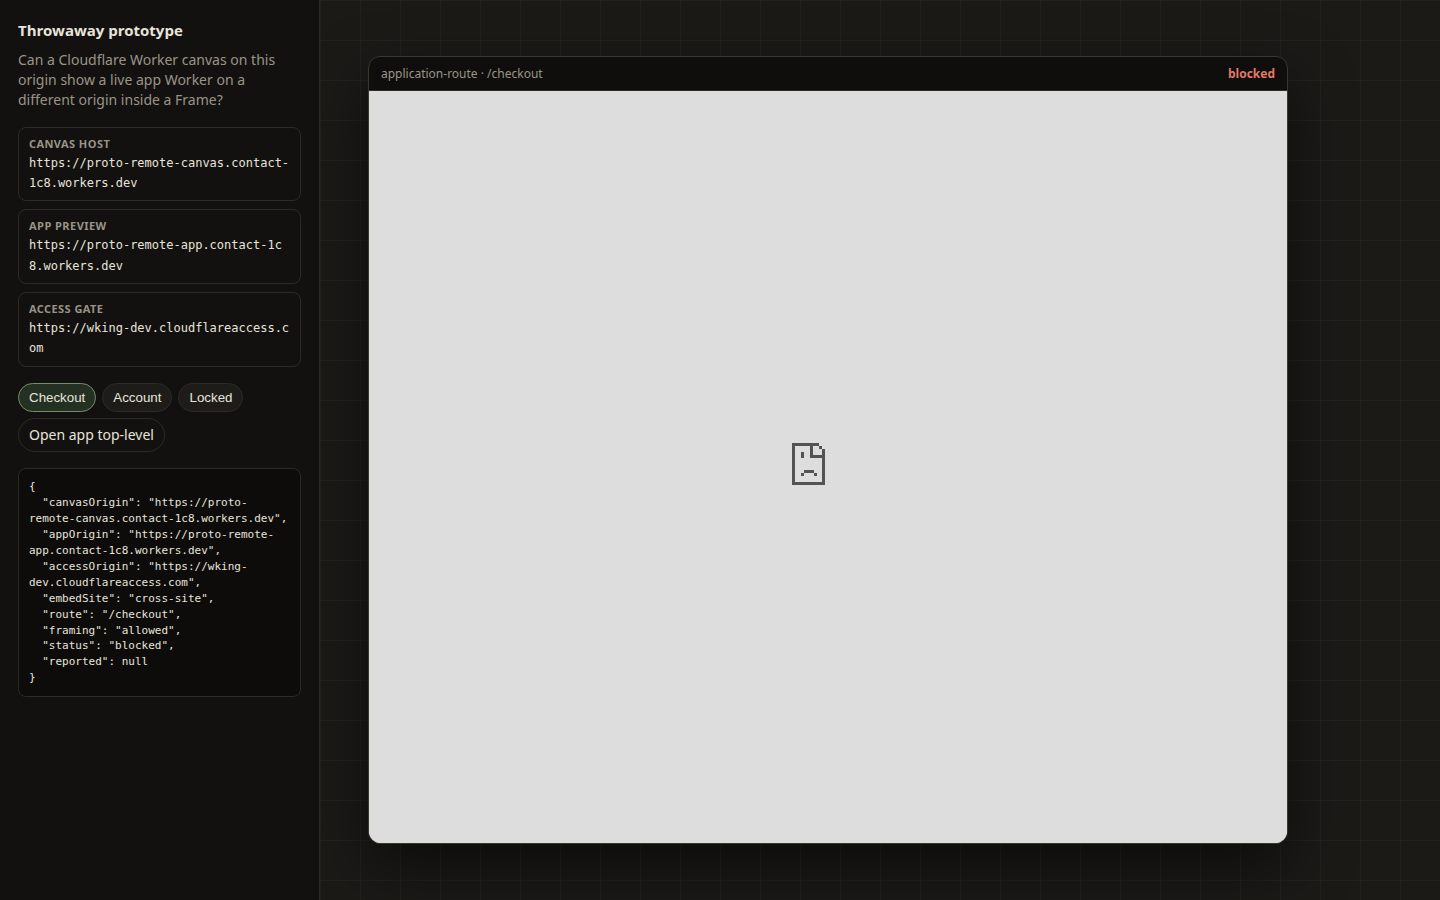
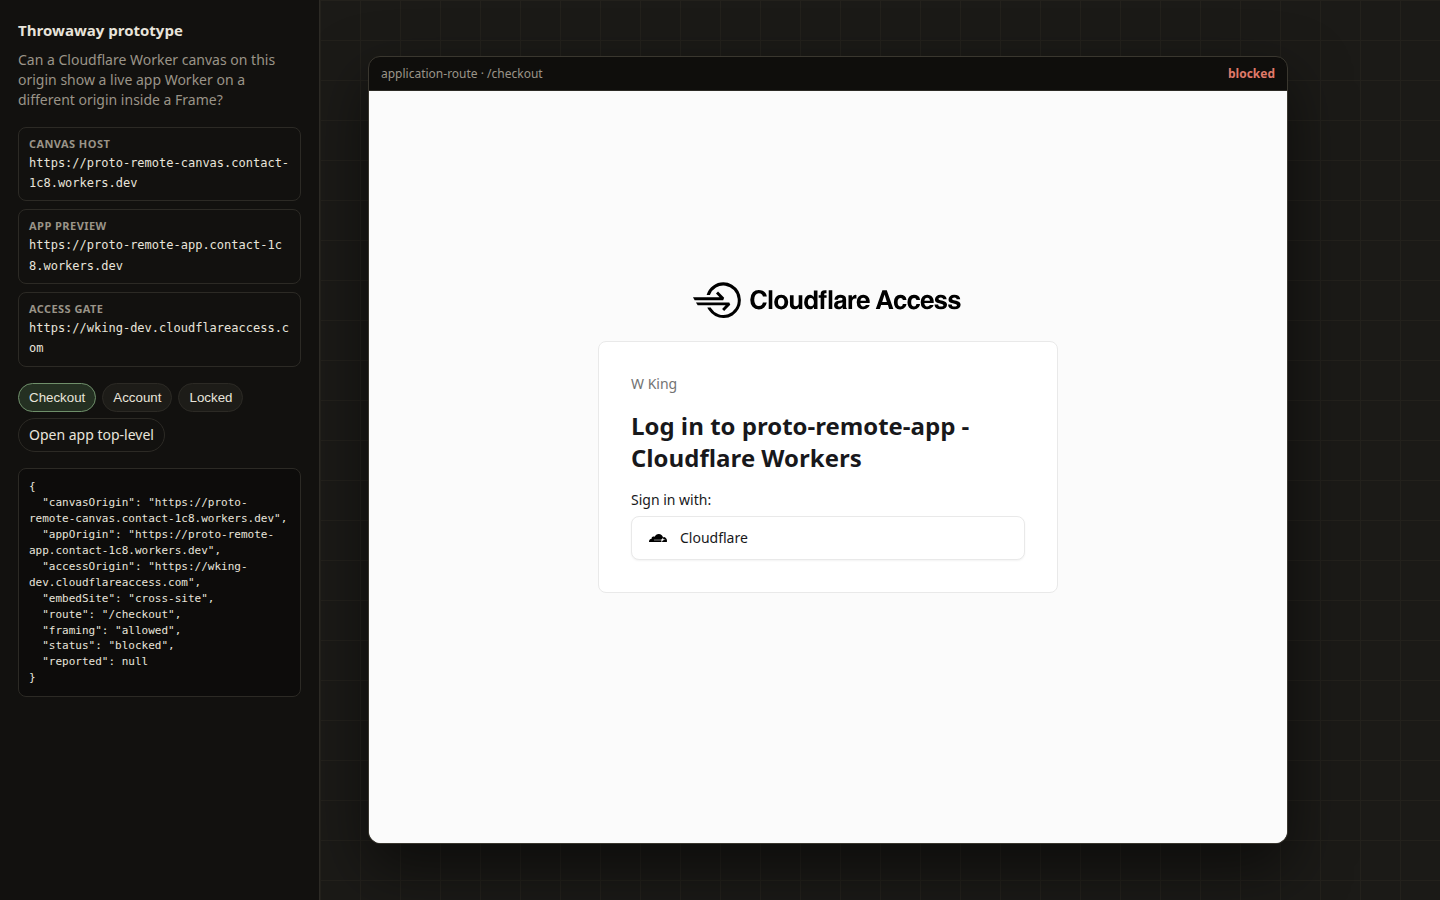
Mark a framed Access login as gate on the live canvas
allow_iframe and CORS are on for proto-remote-app. The Access login
now loads in the canvas Frame. Real Access does not postMessage, so
the canvas treats an allowed iframe load as gate.

diff --git a/prototypes/remote-canvas-viewer/canvas/worker.js b/prototypes/remote-canvas-viewer/canvas/worker.js
@@ -204,6 +204,13 @@ const html = ({ appOrigin, canvasOrigin, accessOrigin }) => `<!doctype html>
       paint()
     }
 
+    iframe.addEventListener("load", () => {
+      if (state.status === "loading" && state.accessOrigin && state.framing === "allowed") {
+        state.status = "gate"
+        paint()
+      }
+    })
+
     window.addEventListener("message", (event) => {
       if (accessOrigin && event.origin === accessOrigin && event.data?.source === "proto-access") {
         state.status = "gate"

diff --git a/prototypes/remote-canvas-viewer/README.md b/prototypes/remote-canvas-viewer/README.md
@@ -62,9 +62,7 @@ Live Workers on the logged-in account, no Turnstile:
 - Canvas `https://proto-remote-canvas.contact-1c8.workers.dev`
 - App `https://proto-remote-app.contact-1c8.workers.dev`
 
-Wrangler OAuth can deploy those. It cannot create or edit Access apps. Access is already on `proto-remote-app`. Checkout 302s to `wking-dev.cloudflareaccess.com`. The login page still sends `X-Frame-Options: DENY`.
-
-Turn on Allow iframe and CORS for `https://proto-remote-canvas.contact-1c8.workers.dev` on that Access app. Then `npm run prove:access-live` should flip `allowIframe` to true and `iframeFirst` off `blocked`.
+Wrangler OAuth can deploy those. It cannot create or edit Access apps. An Account API token with Access: Apps and Policies Edit can. After `allow_iframe` and CORS for the canvas origin, the Access login page drops `X-Frame-Options` and `frame-ancestors 'none'`. The login renders inside the canvas Frame. The canvas marks that `gate` on iframe load. Real Access does not send the mock `proto-access` postMessage.
 
 ```
 export CLOUDFLARE_API_TOKEN=...
